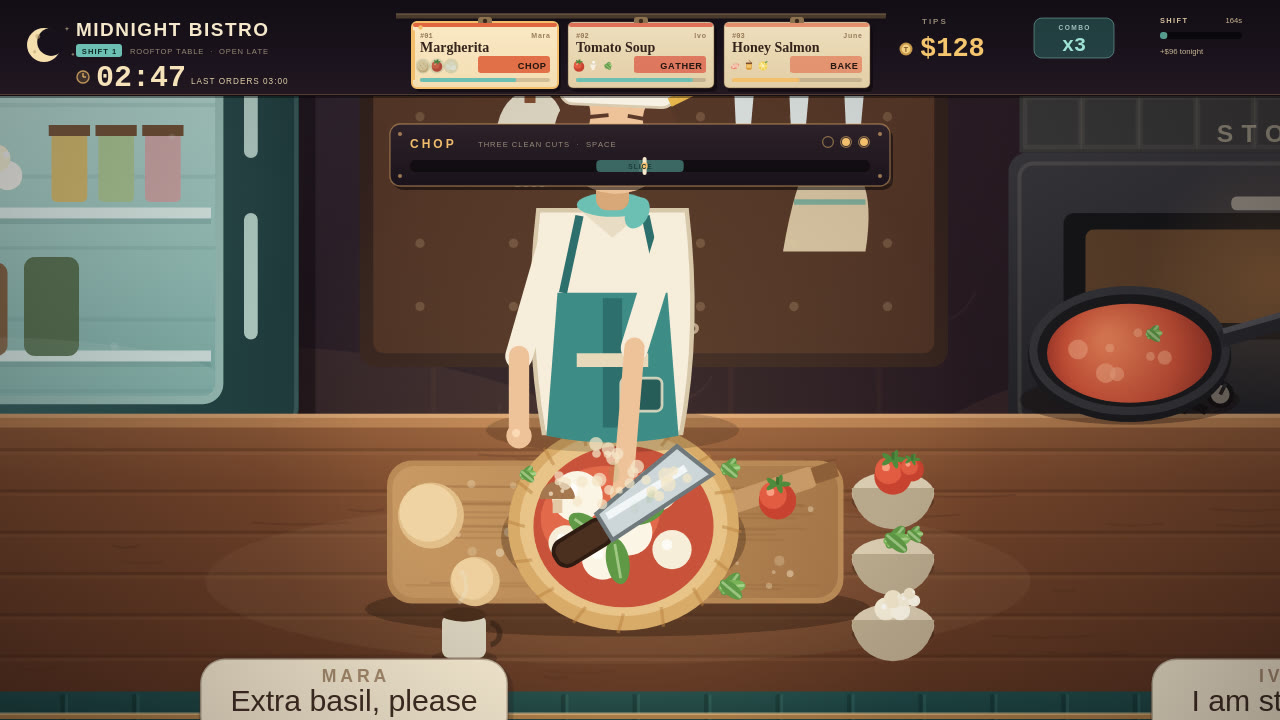
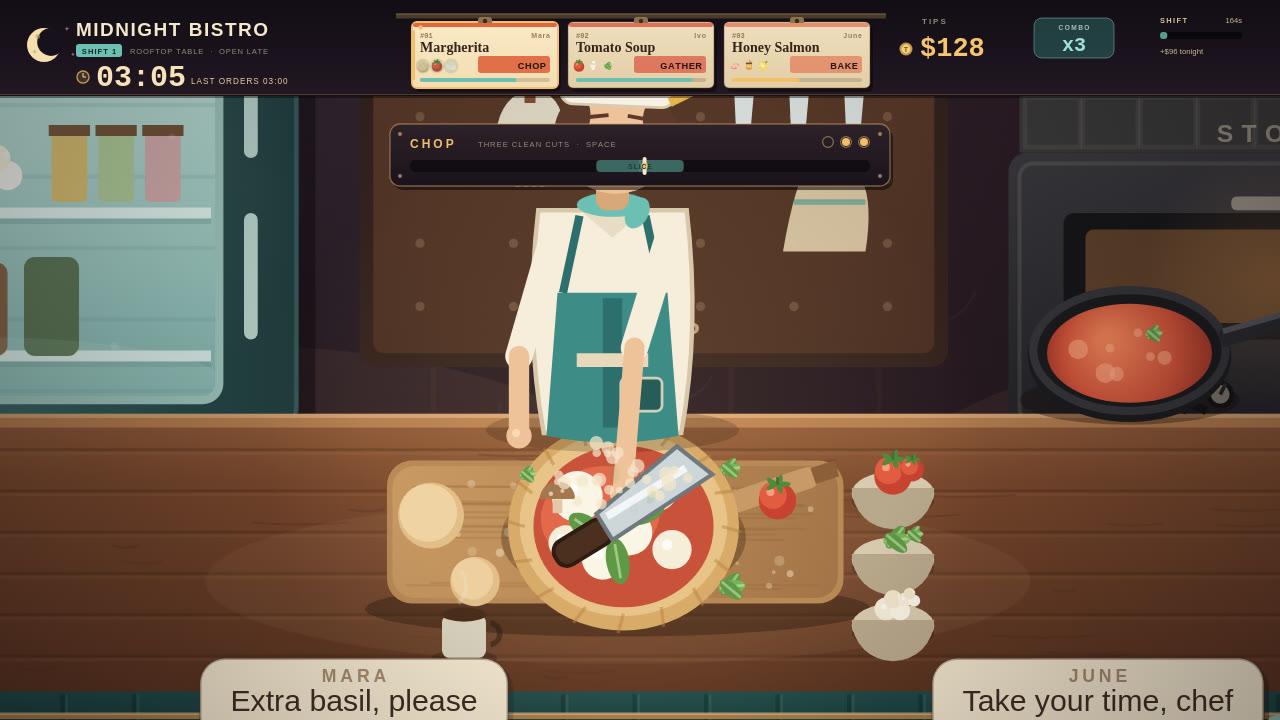
Cover shows assembly in progress; serve lands on the pass bowl; shift clock advances across the sheet

Changed region(s): [[0.7188, 0.9167, 1.0, 1.0], [0.0938, 0.0917, 0.1562, 0.1222]]

diff --git a/game/src/render.js b/game/src/render.js
@@ -1071,6 +1071,50 @@ function drawPizza(ctx, x, y, r, game) {
   // a few basil bits waiting beside it
   drawIngredient(ctx, 'basil', x + r * 0.9, y - r * 0.5, 6);
   drawIngredient(ctx, 'basil', x - r * 0.85, y - r * 0.45, 5);
+  // the cover catches the pizza half-built: one quarter is sauce waiting for cheese, a slice is on its way down
+  if (game.shot === 'cover') {
+    // one quarter is still bare dough: the sauce has not been spread there yet
+    ctx.save();
+    ctx.beginPath();
+    ctx.moveTo(x, y);
+    ctx.ellipse(x, y, r * 0.78, r * 0.7, 0, Math.PI * 1.46, Math.PI * 1.96);
+    ctx.closePath();
+    ctx.clip();
+    const raw = ctx.createRadialGradient(x + r * 0.1, y - r * 0.3, 2, x, y, r);
+    raw.addColorStop(0, '#f2d6a0');
+    raw.addColorStop(0.7, '#e6c184');
+    raw.addColorStop(1, '#d8ae70');
+    ctx.fillStyle = raw;
+    ctx.fillRect(x - r, y - r, r * 2, r * 2);
+    // flour dust on the bare dough
+    ctx.fillStyle = withAlpha('#fff6e0', 0.5);
+    for (let i = 0; i < 7; i++) {
+      const a = -1.35 + i * 0.14;
+      circle(ctx, x + Math.cos(a) * r * (0.3 + (i % 3) * 0.12), y + Math.sin(a) * r * (0.26 + (i % 2) * 0.1), 0.9, withAlpha('#fff6e0', 0.45));
+    }
+    ctx.restore();
+    // a cheese torn and a basil leaf dropping onto the bare quarter
+    const drops = [
+      [x + r * 0.3, y - r * 0.3, '#fbf5e6', 0.15, -1.15],
+      [x + r * 0.47, y - r * 0.08, '#5f9945', 0.11, -0.7],
+    ];
+    for (const [tx, ty, col, rad, rot] of drops) {
+      ctx.save();
+      ctx.strokeStyle = withAlpha('#f6e8cb', 0.55);
+      ctx.lineWidth = 1.3;
+      ctx.beginPath();
+      ctx.moveTo(tx, ty - r * 0.34);
+      ctx.lineTo(tx - 1, ty - r * 0.16);
+      ctx.stroke();
+      ctx.translate(tx, ty);
+      ctx.rotate(rot);
+      ctx.fillStyle = col;
+      ctx.beginPath();
+      ctx.ellipse(0, 0, r * rad, r * rad * 0.72, 0, 0, Math.PI * 2);
+      ctx.fill();
+      ctx.restore();
+    }
+  }
   ctx.restore();
 }
 
@@ -1279,36 +1323,38 @@ function drawPassTop(ctx, game) {
     // one dish waiting (or the decorative hero when the pass is clear): it fills the middle lamp
     const hero = plated.length === 1 ? plated[0] : null;
     const heroRecipe = hero ? hero.recipe : recipeById('ramen');
-    drawDish(ctx, 1104, 500, heroRecipe, hero ? 2.05 : 2.35, hero ? hero.quality === 'perfect' : true);
+    drawDish(ctx, 1104, 500, heroRecipe, hero ? 2.5 : 3.0, hero ? hero.quality === 'perfect' : true);
     // a bright rim keeps the plate from melting into the counter
     ctx.save();
-    ctx.strokeStyle = withAlpha('#fff4d6', 0.85);
-    ctx.lineWidth = 2;
+    ctx.strokeStyle = withAlpha('#fff4d6', 0.9);
+    ctx.lineWidth = 2.4;
     ctx.beginPath();
-    ctx.ellipse(1104, 498, 54, 17.4, 0, Math.PI * 1.03, Math.PI * 1.97);
+    ctx.ellipse(1104, 498, 70, 22, 0, Math.PI * 1.03, Math.PI * 1.97);
     ctx.stroke();
     ctx.restore();
-    // the pass light box says what the counter already knows
-    ctx.fillStyle = withAlpha('#1a1114', 0.88);
-    rr(ctx, 1104 - 58, 439, 116, 28, 5);
-    ctx.fill();
-    ctx.strokeStyle = withAlpha('#f3bf6d', 0.7);
-    ctx.lineWidth = 1.3;
-    ctx.stroke();
-    text(ctx, 'ORDER UP', 1104, 460, 14.5, '#ffd79a', { weight: 700, spacing: 1.7, align: 'center' });
-    // steam curls rising into the lamp light, so the pass reads as a pass
+    // short wisps rising off the bowl into the lamp light
     ctx.save();
-    ctx.strokeStyle = withAlpha('#ffe6bd', 0.26);
+    ctx.strokeStyle = withAlpha('#ffe6bd', 0.3);
     ctx.lineWidth = 2;
     for (let i = 0; i < 3; i++) {
-      const sx = 1086 + i * 16;
+      const sx = 1084 + i * 18;
       const t = game.time * 0.9 + i * 1.7;
       ctx.beginPath();
-      ctx.moveTo(sx, 488);
-      ctx.bezierCurveTo(sx - 5, 476, sx + 5 + Math.sin(t) * 2, 464, sx - 2, 451);
+      ctx.moveTo(sx, 470);
+      ctx.bezierCurveTo(sx - 5, 462, sx + 5 + Math.sin(t) * 2, 454, sx - 2, 447);
       ctx.stroke();
     }
     ctx.restore();
+    // the pass light box hangs on the wall above the bowl, clear of the chef
+    if (!hero) {
+    ctx.fillStyle = withAlpha('#1a1114', 0.92);
+    rr(ctx, 1104 - 68, 409, 136, 30, 5);
+    ctx.fill();
+    ctx.strokeStyle = withAlpha('#f3bf6d', 0.75);
+    ctx.lineWidth = 1.4;
+    ctx.stroke();
+    text(ctx, 'ORDER UP', 1104, 431, 17, '#ffd79a', { weight: 700, spacing: 1.7, align: 'center' });
+    }
   } else {
     const first = 1114 - ((plated.length - 1) * 64) / 2;
     plated.forEach((o, i) => {
@@ -1324,7 +1370,7 @@ function drawPassTop(ctx, game) {
     text(ctx, 'ORDER UP', 1114, 464, 13, '#ffd79a', { weight: 700, spacing: 1.6, align: 'center' });
   }
   // brass bell
-  drawBell(ctx, 1150, 502, game);
+  drawBell(ctx, 1205, 502, game);
   // clean plate at the end
   ctx.fillStyle = '#f7efdb';
   ctx.beginPath();
@@ -1454,20 +1500,73 @@ function drawDish(ctx, x, y, recipe, scale = 1, sparkle = false) {
   ctx.beginPath();
   ctx.ellipse(x, y, r, r * 0.32, 0, 0, Math.PI * 2);
   ctx.fill();
+  // a band of the dish's colour just inside the rim: every plate reads as its own dish
+  ctx.strokeStyle = withAlpha(recipe.color, 0.55);
+  ctx.lineWidth = 2.2 * scale;
+  ctx.beginPath();
+  ctx.ellipse(x, y - 1, r * 0.84, r * 0.26, 0, 0, Math.PI * 2);
+  ctx.stroke();
   ctx.strokeStyle = withAlpha('#b9a781', 0.8);
   ctx.lineWidth = 1;
   ctx.beginPath();
   ctx.ellipse(x, y - 1, r * 0.7, r * 0.22, 0, 0, Math.PI * 2);
   ctx.stroke();
-  // the food itself, a coloured bowl with little dots
-  ctx.fillStyle = recipe.cook === 'oven' ? '#c98a4f' : recipe.color;
-  ctx.beginPath();
-  ctx.ellipse(x, y - 3 * scale, r * 0.62, r * 0.24, 0, 0, Math.PI * 2);
-  ctx.fill();
-  ctx.fillStyle = withAlpha('#fff2d0', 0.8);
-  for (let i = 0; i < 5; i++) {
-    const a = i * 1.7;
-    circle(ctx, x + Math.cos(a) * r * 0.3, y - 3 * scale + Math.sin(a) * r * 0.1, 1.8 * scale, withAlpha(i % 2 ? '#f5d98b' : '#6ea84f', 0.9));
+  if (recipe.id === 'ramen') {
+    // broth, noodle nest, egg, nori and scallions: reads as ramen even at thumbnail size
+    ctx.fillStyle = '#8a4a26';
+    ctx.beginPath();
+    ctx.ellipse(x, y - 2.5 * scale, r * 0.68, r * 0.25, 0, 0, Math.PI * 2);
+    ctx.fill();
+    ctx.fillStyle = withAlpha('#b86a32', 0.85);
+    ctx.beginPath();
+    ctx.ellipse(x - r * 0.12, y - 3.2 * scale, r * 0.42, r * 0.14, -0.2, 0, Math.PI * 2);
+    ctx.fill();
+    // noodles
+    ctx.strokeStyle = '#f0d488';
+    ctx.lineWidth = 2.4 * scale;
+    for (let i = 0; i < 3; i++) {
+      ctx.beginPath();
+      ctx.moveTo(x - r * 0.5 + i * r * 0.16, y - 3 * scale);
+      ctx.bezierCurveTo(
+        x - r * 0.3 + i * r * 0.16, y - 9 * scale,
+        x - r * 0.05 + i * r * 0.16, y + 2 * scale,
+        x + r * 0.18 + i * r * 0.16, y - 4 * scale,
+      );
+      ctx.stroke();
+    }
+    // egg half
+    ctx.fillStyle = '#fbf5e6';
+    ctx.beginPath();
+    ctx.ellipse(x + r * 0.34, y - 6 * scale, r * 0.2, r * 0.16, -0.2, 0, Math.PI * 2);
+    ctx.fill();
+    circle(ctx, x + r * 0.35, y - 6 * scale, r * 0.09, '#e8902f');
+    // nori
+    ctx.save();
+    ctx.translate(x - r * 0.28, y - 8 * scale);
+    ctx.rotate(-0.16);
+    ctx.fillStyle = '#2e4a34';
+    rr(ctx, -r * 0.12, -r * 0.16, r * 0.24, r * 0.2, 1.5 * scale);
+    ctx.fill();
+    ctx.restore();
+    // scallions
+    for (let i = 0; i < 4; i++) {
+      const a = i * 1.9 + 0.4;
+      circle(ctx, x + Math.cos(a) * r * 0.3, y - 3 * scale + Math.sin(a) * r * 0.1, 1.6 * scale, '#6ea84f');
+    }
+    // chopsticks resting across the rim
+    line(ctx, x - r * 0.72, y + r * 0.2, x + r * 0.5, y - r * 0.24, '#c79a68', 1.7 * scale);
+    line(ctx, x - r * 0.7, y + r * 0.26, x + r * 0.52, y - r * 0.18, '#a97c4c', 1.4 * scale);
+  } else {
+    // the food itself, a coloured bowl with little dots
+    ctx.fillStyle = recipe.cook === 'oven' ? '#c98a4f' : recipe.color;
+    ctx.beginPath();
+    ctx.ellipse(x, y - 3 * scale, r * 0.62, r * 0.24, 0, 0, Math.PI * 2);
+    ctx.fill();
+    ctx.fillStyle = withAlpha('#fff2d0', 0.8);
+    for (let i = 0; i < 5; i++) {
+      const a = i * 1.7;
+      circle(ctx, x + Math.cos(a) * r * 0.3, y - 3 * scale + Math.sin(a) * r * 0.1, 1.8 * scale, withAlpha(i % 2 ? '#f5d98b' : '#6ea84f', 0.9));
+    }
   }
   if (sparkle) {
     ctx.save();
@@ -1895,9 +1994,8 @@ function drawCat(ctx, game) {
   ctx.restore();
 }
 
-function drawBubble(ctx, seat, def) {
+function drawBubble(ctx, seat, def, game) {
   if (!seat || seat.gone || !seat.bubble) return;
-  const x = def.x;
   const y = 540;
   const happy = seat.mood === 'happy';
   const sad = seat.mood === 'sad';
@@ -1906,6 +2004,9 @@ function drawBubble(ctx, seat, def) {
   const tw = ctx.measureText(seat.bubble).width;
   const w = Math.max(92, tw + 22);
   const h = 30;
+  // clamp to the visible world so a bubble never gets sliced by the frame edge
+  const halfView = W / (2 * game.camera.zoom);
+  const x = clamp(def.x, game.camera.x - halfView + w / 2 + 6, game.camera.x + halfView - w / 2 - 6);
   ctx.fillStyle = withAlpha('#1a1114', 0.2);
   rr(ctx, x - w / 2 + 2, y + 2, w, h, 9);
   ctx.fill();
@@ -1939,7 +2040,7 @@ function drawForeground(ctx, game) {
     const def = { x: seatXs[i], hair: '#4a2c25', sweater: '#6b3f5b', ...SEAT_DEFS[i] };
     if (seat && seat.gone) continue;
     drawCustomer(ctx, game, seat, def, i);
-    drawBubble(ctx, seat, def);
+    drawBubble(ctx, seat, def, game);
   }
 }
 

diff --git a/game/src/shots.js b/game/src/shots.js
@@ -98,7 +98,7 @@ export function stageShot(game, kind, seed = 7) {
     game.camera = createCamera(400, 446, 2.75);
     game.tips = 128;
     game.combo = 3;
-    game.clockMinutes = 167;
+    game.clockMinutes = 185;
     emitFlour(game, 386, 486, 26);
     emitBits(game, 392, 486, '#6ea84f', 7);
     emitSteam(game, 674, 404, 4, 10, { a: 0.13 });
@@ -120,6 +120,7 @@ export function stageShot(game, kind, seed = 7) {
       o0.quality = null;
     }
     game.camera = createCamera(646, 436, 2.7);
+    game.clockMinutes = 176;
     emitSteam(game, 674, 402, 12, 12, { a: 0.2 });
     emitSteam(game, 578, 424, 6, 16, { a: 0.12 });
     emitSpark(game, 566, 440, 8);
@@ -130,15 +131,16 @@ export function stageShot(game, kind, seed = 7) {
     seat(game, 2, seat2, 'Mmm. Perfect.', 'happy');
     ticket(game, 0, 'ramen', 'serve', 0.72, { gathered: true, chops: 3 });
     ticket(game, 1, 'margherita', 'chop', 0.55, { gathered: true, chops: 1 });
-    moveChefTo(game.chef, 'pass', 0);
+    moveChefTo(game.chef, 'pass', -110);
     setPose(game.chef, 'ring', 99);
-    game.camera = createCamera(1008, 430, 2.1);
+    game.camera = createCamera(1080, 470, 2.4);
     game.tips = 128;
     game.combo = 3;
     game.tipsEarned = 114;
     game.served = 3;
+    game.clockMinutes = 151;
     game.lastTip = { amount: 18, mult: 3, t: 2.1, slot: 2 };
-    addPopup(game, '+$18 x3', 1104, 470, '#ffd79a');
+    addPopup(game, '+$18 x3', 1104, 424, '#ffd79a');
     emitHearts(game, 1104, 566, 7);
     emitCoins(game, 1104, 596, 1104, 54, 4);
     emitSteam(game, 1058, 452, 8, 14, { a: 0.16 });
@@ -161,7 +163,7 @@ export function stageShot(game, kind, seed = 7) {
       game.chop.pos = 0.47;
       o0.chops = 2;
     }
-    game.camera = createCamera(700, 420, 1.35);
+    game.camera = createCamera(760, 420, 1.35);
     game.tips = 128;
     game.combo = 3;
     game.shiftTime = 96;
@@ -170,7 +172,9 @@ export function stageShot(game, kind, seed = 7) {
     game.hintText = 'ORDER #01  ·  finish the basil, then cook the Margherita';
     game.hintT = 99;
     emitSteam(game, 674, 400, 14, 12, { a: 0.2 });
-    emitSteam(game, 1058, 448, 6, 12, { a: 0.14 });
+    // a real column off the plated ramen, so the pass reads as hot food waiting
+    emitSteam(game, 1100, 470, 11, 15, { a: 0.22 });
+    emitSteam(game, 1118, 478, 7, 11, { a: 0.16 });
     emitSpark(game, 566, 440, 7);
     emitFlour(game, 384, 486, 16);
     emitBits(game, 400, 486, '#6ea84f', 5);

diff --git a/game/src/hud.js b/game/src/hud.js
@@ -132,6 +132,8 @@ export function drawHUD(ctx, game) {
   if (game.muted) text(ctx, 'MUTED', 1242, 54, 7, withAlpha('#d98b7a', 0.8), { weight: 700, align: 'right', spacing: 1 });
 
   if (game.shot) {
+    // staged screenshots still show the game teaching the next route step
+    if (game.hintT > 0) drawHintLine(ctx, game);
     if (game.shot === 'chop' || game.shot === 'stove') drawMeters(ctx, game);
     return;
   }
